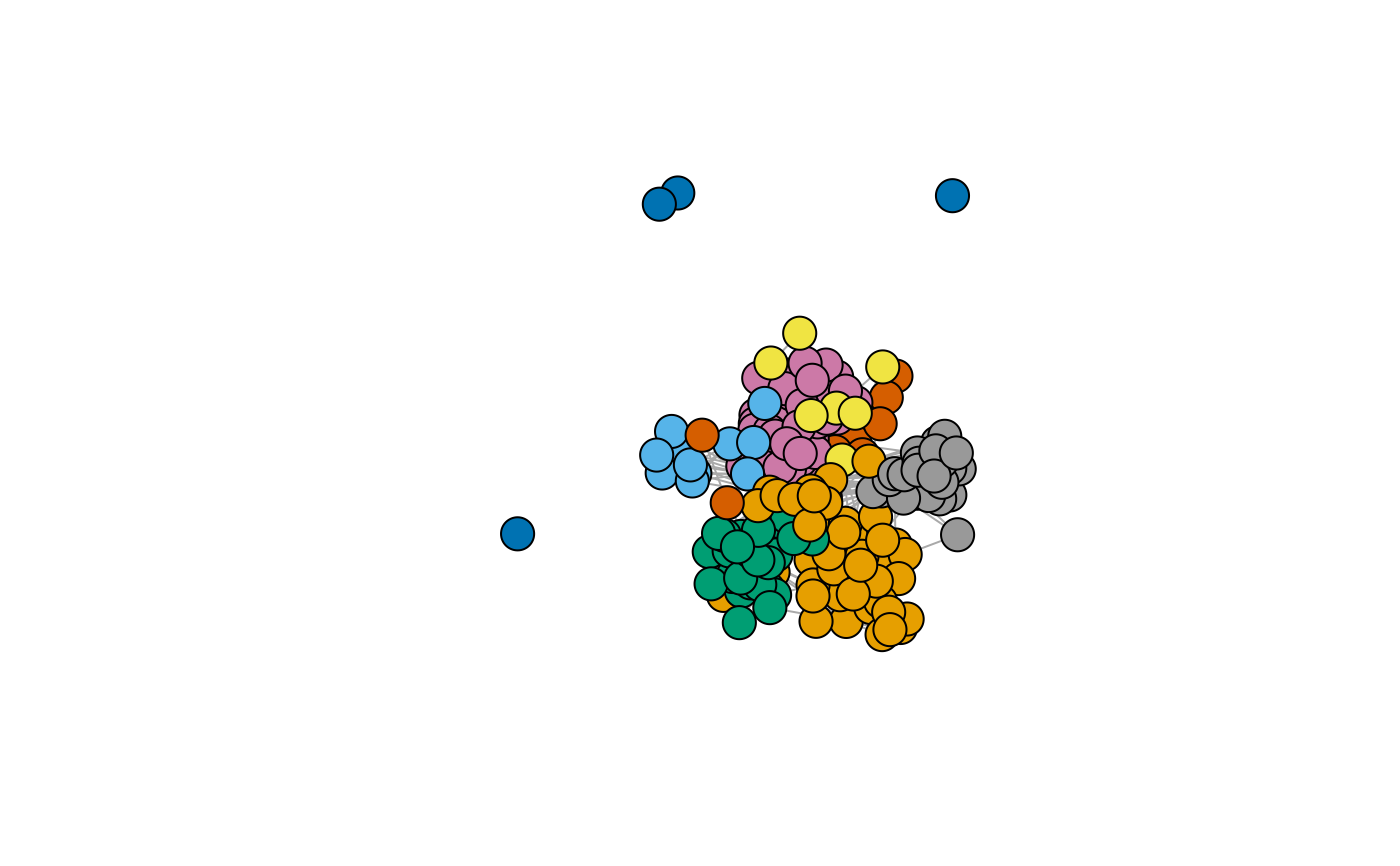
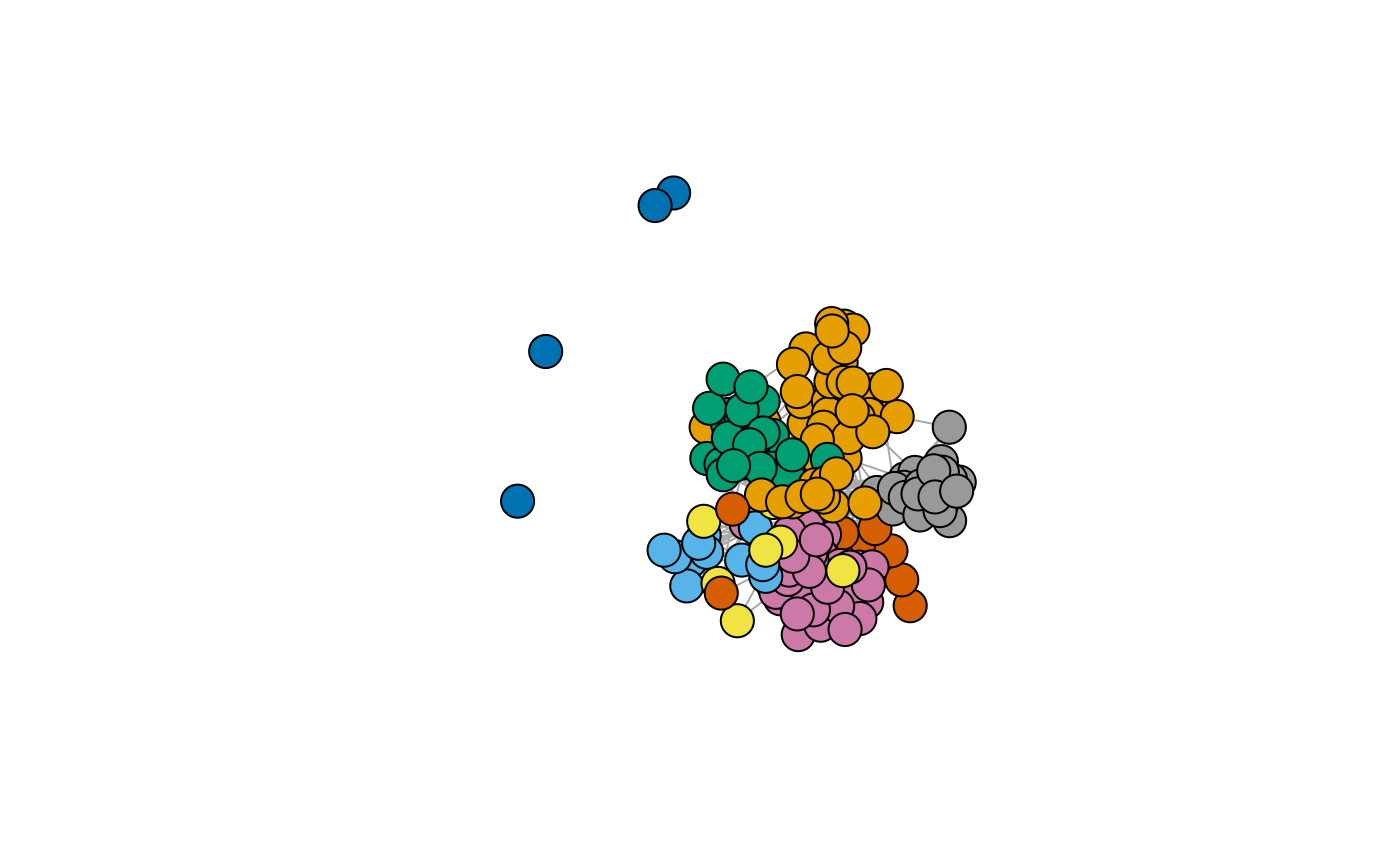
Deploying to gh-pages from @ GrossSBM/missSBM@a7cb46d272d2c9c2d787e0a41fca44320d3256e4 🚀

diff --git a/news/index.html b/news/index.html
@@ -7,7 +7,7 @@
 
     <a class="navbar-brand me-2" href="../index.html">missSBM</a>
 
-    <small class="nav-text text-muted me-auto" data-bs-toggle="tooltip" data-bs-placement="bottom" title="">1.1.0</small>
+    <small class="nav-text text-muted me-auto" data-bs-toggle="tooltip" data-bs-placement="bottom" title="">1.1.1</small>
 
 
     <button class="navbar-toggler" type="button" data-bs-toggle="collapse" data-bs-target="#navbar" aria-controls="navbar" aria-expanded="false" aria-label="Toggle navigation">
@@ -33,6 +33,13 @@
       <small>Source: <a href="https://github.com/grossSBM/missSBM/blob/master/NEWS.md" class="external-link"><code>NEWS.md</code></a></small>
     </div>
 
+    <div class="section level2">
+<h2 class="pkg-version" data-toc-text="1.1.1" id="misssbm-111">missSBM 1.1.1<a class="anchor" aria-label="anchor" href="#misssbm-111"></a></h2>
+<div class="section level3">
+<h3 id="bug-fixes-1-1-1">Bug fixes<a class="anchor" aria-label="anchor" href="#bug-fixes-1-1-1"></a></h3>
+<ul><li>Force sequential execution (<code>nbCores = 1</code>) in the <code>blockmodels</code>-based reference tests, avoiding a segfault caused by <code>blockmodels</code>’s internal <code><a href="https://rdrr.io/r/parallel/mclapply.html" class="external-link">parallel::mclapply</a></code> use, which is unsafe when combined with macOS’s Accelerate/vecLib BLAS-LAPACK framework (observed on CRAN’s r-oldrel-macos-arm64 check machine).</li>
+</ul></div>
+</div>
     <div class="section level2">
 <h2 class="pkg-version" data-toc-text="1.1.0" id="misssbm-110-2026-07-21">missSBM 1.1.0 (2026-07-21)<a class="anchor" aria-label="anchor" href="#misssbm-110-2026-07-21"></a></h2><p class="text-muted">CRAN release: 2026-07-21</p>
 <div class="section level3">

diff --git a/reference/missSBM_collection.html b/reference/missSBM_collection.html
@@ -17,7 +17,7 @@ as S3 methods. See the documentation for show() and print()"></head><body>
 
     <a class="navbar-brand me-2" href="../index.html">missSBM</a>
 
-    <small class="nav-text text-muted me-auto" data-bs-toggle="tooltip" data-bs-placement="bottom" title="">1.1.0</small>
+    <small class="nav-text text-muted me-auto" data-bs-toggle="tooltip" data-bs-placement="bottom" title="">1.1.1</small>
 
 
     <button class="navbar-toggler" type="button" data-bs-toggle="collapse" data-bs-target="#navbar" aria-controls="navbar" aria-expanded="false" aria-label="Toggle navigation">
@@ -293,7 +293,7 @@ directions are searched. Default "both".</p></dd>
 <span class="r-out co"><span class="r-pr">#&gt;</span> </span>
 <span class="r-out co"><span class="r-pr">#&gt;</span>  Initialization of 5 model(s). </span>
 <span class="r-out co"><span class="r-pr">#&gt;</span>  Performing VEM inference</span>
-<span class="r-out co"><span class="r-pr">#&gt;</span>  	Model with 5 blocks.
 	Model with 2 blocks.
 	Model with 1 blocks.
 	Model with 3 blocks.
 	Model with 4 blocks.
 Polishing (node-swap)</span>
+<span class="r-out co"><span class="r-pr">#&gt;</span>  	Model with 2 blocks.
 	Model with 1 blocks.
 	Model with 5 blocks.
 	Model with 4 blocks.
 	Model with 3 blocks.
 Polishing (node-swap)</span>
 <span class="r-out co"><span class="r-pr">#&gt;</span> </span>
 <span class="r-out co"><span class="r-pr">#&gt;</span>  Looking for better solutions</span>
 <span class="r-out co"><span class="r-pr">#&gt;</span>  Pass 1   Going forward ++++
                                                                                                    
 Pass 1   Going backward ++++
                                                                                                    
</span>

diff --git a/404.html b/404.html
@@ -20,7 +20,7 @@
 
     <a class="navbar-brand me-2" href="https://grosssbm.github.io/missSBM/index.html">missSBM</a>
 
-    <small class="nav-text text-muted me-auto" data-bs-toggle="tooltip" data-bs-placement="bottom" title="">1.1.0</small>
+    <small class="nav-text text-muted me-auto" data-bs-toggle="tooltip" data-bs-placement="bottom" title="">1.1.1</small>
 
 
     <button class="navbar-toggler" type="button" data-bs-toggle="collapse" data-bs-target="#navbar" aria-controls="navbar" aria-expanded="false" aria-label="Toggle navigation">

diff --git a/LICENSE.html b/LICENSE.html
@@ -7,7 +7,7 @@
 
     <a class="navbar-brand me-2" href="index.html">missSBM</a>
 
-    <small class="nav-text text-muted me-auto" data-bs-toggle="tooltip" data-bs-placement="bottom" title="">1.1.0</small>
+    <small class="nav-text text-muted me-auto" data-bs-toggle="tooltip" data-bs-placement="bottom" title="">1.1.1</small>
 
 
     <button class="navbar-toggler" type="button" data-bs-toggle="collapse" data-bs-target="#navbar" aria-controls="navbar" aria-expanded="false" aria-label="Toggle navigation">

diff --git a/articles/case_study_war_networks.html b/articles/case_study_war_networks.html
@@ -20,7 +20,7 @@
 
     <a class="navbar-brand me-2" href="../index.html">missSBM</a>
 
-    <small class="nav-text text-muted me-auto" data-bs-toggle="tooltip" data-bs-placement="bottom" title="">1.1.0</small>
+    <small class="nav-text text-muted me-auto" data-bs-toggle="tooltip" data-bs-placement="bottom" title="">1.1.1</small>
 
 
     <button class="navbar-toggler" type="button" data-bs-toggle="collapse" data-bs-target="#navbar" aria-controls="navbar" aria-expanded="false" aria-label="Toggle navigation">

diff --git a/articles/index.html b/articles/index.html
@@ -7,7 +7,7 @@
 
     <a class="navbar-brand me-2" href="../index.html">missSBM</a>
 
-    <small class="nav-text text-muted me-auto" data-bs-toggle="tooltip" data-bs-placement="bottom" title="">1.1.0</small>
+    <small class="nav-text text-muted me-auto" data-bs-toggle="tooltip" data-bs-placement="bottom" title="">1.1.1</small>
 
 
     <button class="navbar-toggler" type="button" data-bs-toggle="collapse" data-bs-target="#navbar" aria-controls="navbar" aria-expanded="false" aria-label="Toggle navigation">

diff --git a/authors.html b/authors.html
@@ -7,7 +7,7 @@
 
     <a class="navbar-brand me-2" href="index.html">missSBM</a>
 
-    <small class="nav-text text-muted me-auto" data-bs-toggle="tooltip" data-bs-placement="bottom" title="">1.1.0</small>
+    <small class="nav-text text-muted me-auto" data-bs-toggle="tooltip" data-bs-placement="bottom" title="">1.1.1</small>
 
 
     <button class="navbar-toggler" type="button" data-bs-toggle="collapse" data-bs-target="#navbar" aria-controls="navbar" aria-expanded="false" aria-label="Toggle navigation">

diff --git a/index.html b/index.html
@@ -22,7 +22,7 @@
 
     <a class="navbar-brand me-2" href="index.html">missSBM</a>
 
-    <small class="nav-text text-muted me-auto" data-bs-toggle="tooltip" data-bs-placement="bottom" title="">1.1.0</small>
+    <small class="nav-text text-muted me-auto" data-bs-toggle="tooltip" data-bs-placement="bottom" title="">1.1.1</small>
 
 
     <button class="navbar-toggler" type="button" data-bs-toggle="collapse" data-bs-target="#navbar" aria-controls="navbar" aria-expanded="false" aria-label="Toggle navigation">

diff --git a/reference/SimpleSBM_fit.html b/reference/SimpleSBM_fit.html
@@ -9,7 +9,7 @@ SimpleSBM_fit_noCov, SimpleSBM_fit_withCov and SimpleSBM_fit_MNAR."></head><body
 
     <a class="navbar-brand me-2" href="../index.html">missSBM</a>
 
-    <small class="nav-text text-muted me-auto" data-bs-toggle="tooltip" data-bs-placement="bottom" title="">1.1.0</small>
+    <small class="nav-text text-muted me-auto" data-bs-toggle="tooltip" data-bs-placement="bottom" title="">1.1.1</small>
 
 
     <button class="navbar-toggler" type="button" data-bs-toggle="collapse" data-bs-target="#navbar" aria-controls="navbar" aria-expanded="false" aria-label="Toggle navigation">

diff --git a/reference/SimpleSBM_fit_MNAR.html b/reference/SimpleSBM_fit_MNAR.html
@@ -7,7 +7,7 @@
 
     <a class="navbar-brand me-2" href="../index.html">missSBM</a>
 
-    <small class="nav-text text-muted me-auto" data-bs-toggle="tooltip" data-bs-placement="bottom" title="">1.1.0</small>
+    <small class="nav-text text-muted me-auto" data-bs-toggle="tooltip" data-bs-placement="bottom" title="">1.1.1</small>
 
 
     <button class="navbar-toggler" type="button" data-bs-toggle="collapse" data-bs-target="#navbar" aria-controls="navbar" aria-expanded="false" aria-label="Toggle navigation">

diff --git a/reference/SimpleSBM_fit_noCov.html b/reference/SimpleSBM_fit_noCov.html
@@ -7,7 +7,7 @@
 
     <a class="navbar-brand me-2" href="../index.html">missSBM</a>
 
-    <small class="nav-text text-muted me-auto" data-bs-toggle="tooltip" data-bs-placement="bottom" title="">1.1.0</small>
+    <small class="nav-text text-muted me-auto" data-bs-toggle="tooltip" data-bs-placement="bottom" title="">1.1.1</small>
 
 
     <button class="navbar-toggler" type="button" data-bs-toggle="collapse" data-bs-target="#navbar" aria-controls="navbar" aria-expanded="false" aria-label="Toggle navigation">

diff --git a/reference/SimpleSBM_fit_withCov.html b/reference/SimpleSBM_fit_withCov.html
@@ -7,7 +7,7 @@
 
     <a class="navbar-brand me-2" href="../index.html">missSBM</a>
 
-    <small class="nav-text text-muted me-auto" data-bs-toggle="tooltip" data-bs-placement="bottom" title="">1.1.0</small>
+    <small class="nav-text text-muted me-auto" data-bs-toggle="tooltip" data-bs-placement="bottom" title="">1.1.1</small>
 
 
     <button class="navbar-toggler" type="button" data-bs-toggle="collapse" data-bs-target="#navbar" aria-controls="navbar" aria-expanded="false" aria-label="Toggle navigation">